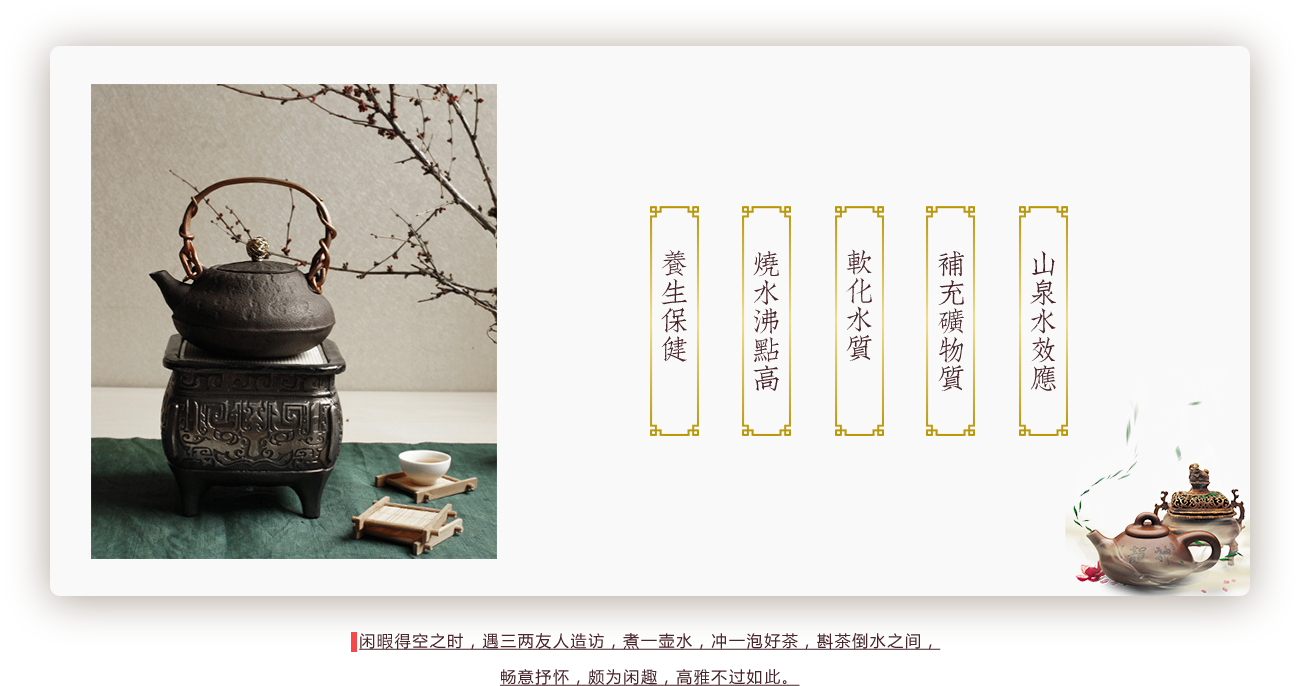
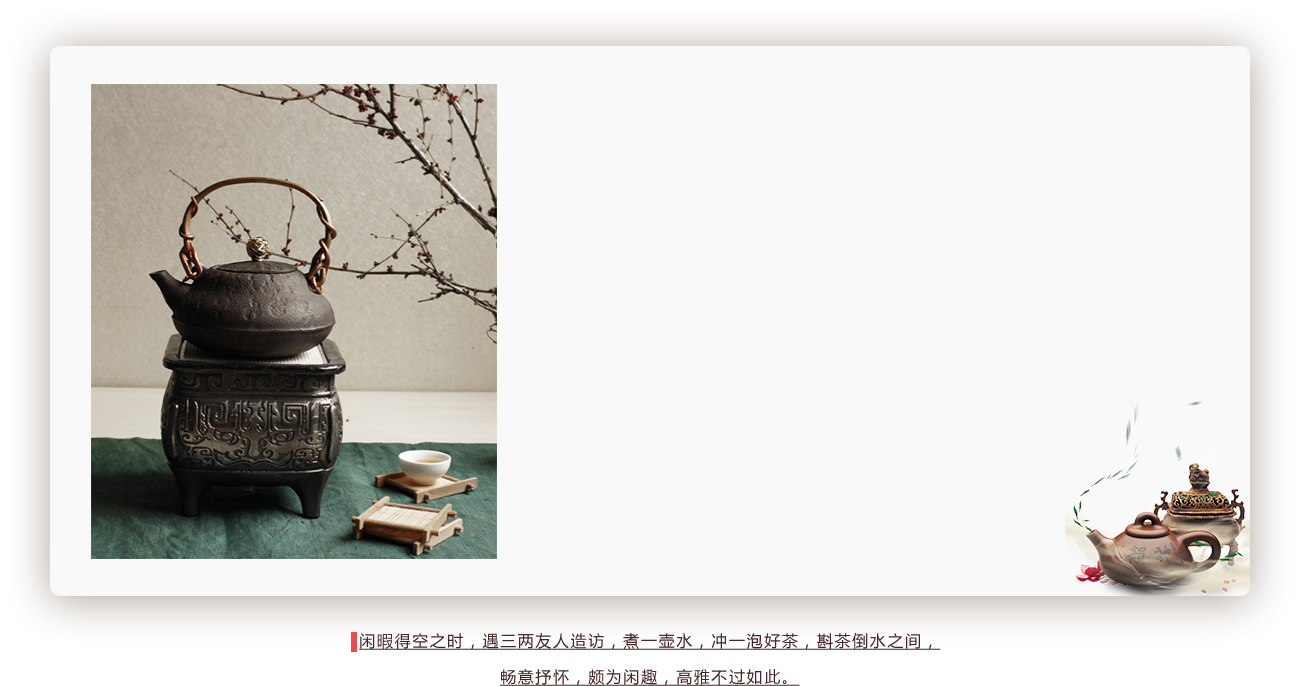
abc

diff --git a/home.html b/home.html
@@ -79,19 +79,39 @@
 		<section>
 			<div class="culture"></div>
 			<div class="title title1"></div>
-			<div class="guanyuchanpin"></div>
+			<div class="guanyuchanpin">
+				<div class="gycpbox container">
+					<div class="gycp">
+						<img src="img/guanyuchanpinpic1.png" alt="">
+					</div>
+					<ul class="innerul">
+						<li><a href=""><img src="img/yangshengbaojian.png" alt=""></a></li>
+						<li><a href=""><img src="img/shaoshuifeidiangao.png" alt=""></a></li>
+						<li><a href=""><img src="img/ruanhuashuizhi.png" alt=""></a></li>
+						<li><a href=""><img src="img/buchongkuangwuzhi.png" alt=""></a></li>
+						<li><a href=""><img src="img/shanquanshuixiaoying.png" alt=""></a></li>
+					</ul>
+				</div>
+				<p><span></span>闲暇得空之时，遇三两友人造访，煮一壶水，冲一泡好茶，斟茶倒水之间， 畅意抒怀，颇为闲趣，高雅不过如此。</p>
+			</div>
 			<div class="title title2"></div>
 			<div class="xianghe"></div>
 			<div class="title title3"></div>
 			<ul class="fenlei">
 				<li>
-					<img src="img/fenlei1.png" width="331px" alt="">
+					<a href="">
+						<img src="img/fenlei1.png" width="331px" alt="">
+					</a>
 				</li>
 				<li>
-					<img src="img/fenlei2.png" width="331px" alt="">
+					<a href="">
+						<img src="img/fenlei2.png" width="331px" alt="">
+					</a>
 				</li>
 				<li>
-					<img src="img/fenlei3.png" width="331px" alt="">
+					<a href="">
+						<img src="img/fenlei3.png" width="331px" alt="">
+					</a>
 				</li>
 			</ul>
 		</section>

diff --git a/css/home.css b/css/home.css
@@ -175,7 +175,39 @@ section .guanyuchanpin{
 	margin-top: 60px;
 	width: 100%;
 	height: 686px;
-	background: url('../img/guanyuchanpin.png') no-repeat center /contain;
+	text-align: center;
+}
+section .guanyuchanpin .gycpbox{
+	border-radius: 10px;
+	height:550px;
+	background: url('../img/guanyuchanpinback.png') no-repeat center center /cover;
+}
+section .guanyuchanpin .gycpbox .gycp{
+	margin:38px 0 38px 40px;
+	float: left;
+}
+section .guanyuchanpin .innerul{
+	float:left;
+	width:418px;
+	height:100%;
+	display: flex;
+	justify-content: space-between;
+	align-items: center;
+	margin-left: 153px;
+}
+section .guanyuchanpin p{
+	width: 600px;
+	margin: 30px auto 0;
+	font-size:16px;
+	color:#462327;
+	line-height: 2em;
+}
+section .guanyuchanpin p span{
+	margin-bottom: -4px;
+	display: inline-block;
+	width: 6px;
+	height:20px;
+	background: #F34947;
 }
 section .title2{
 	margin-top: 200px;
@@ -233,6 +265,7 @@ footer .footerbottom .topbtnbox{
 	height: 58px;
 	background: rgba(0, 0, 0, 0.1);
 	border-radius: 50%;
+	cursor: pointer;
 }
 footer .footerbottom .topbtnbox .topbtn{
 	margin: 0 auto;
